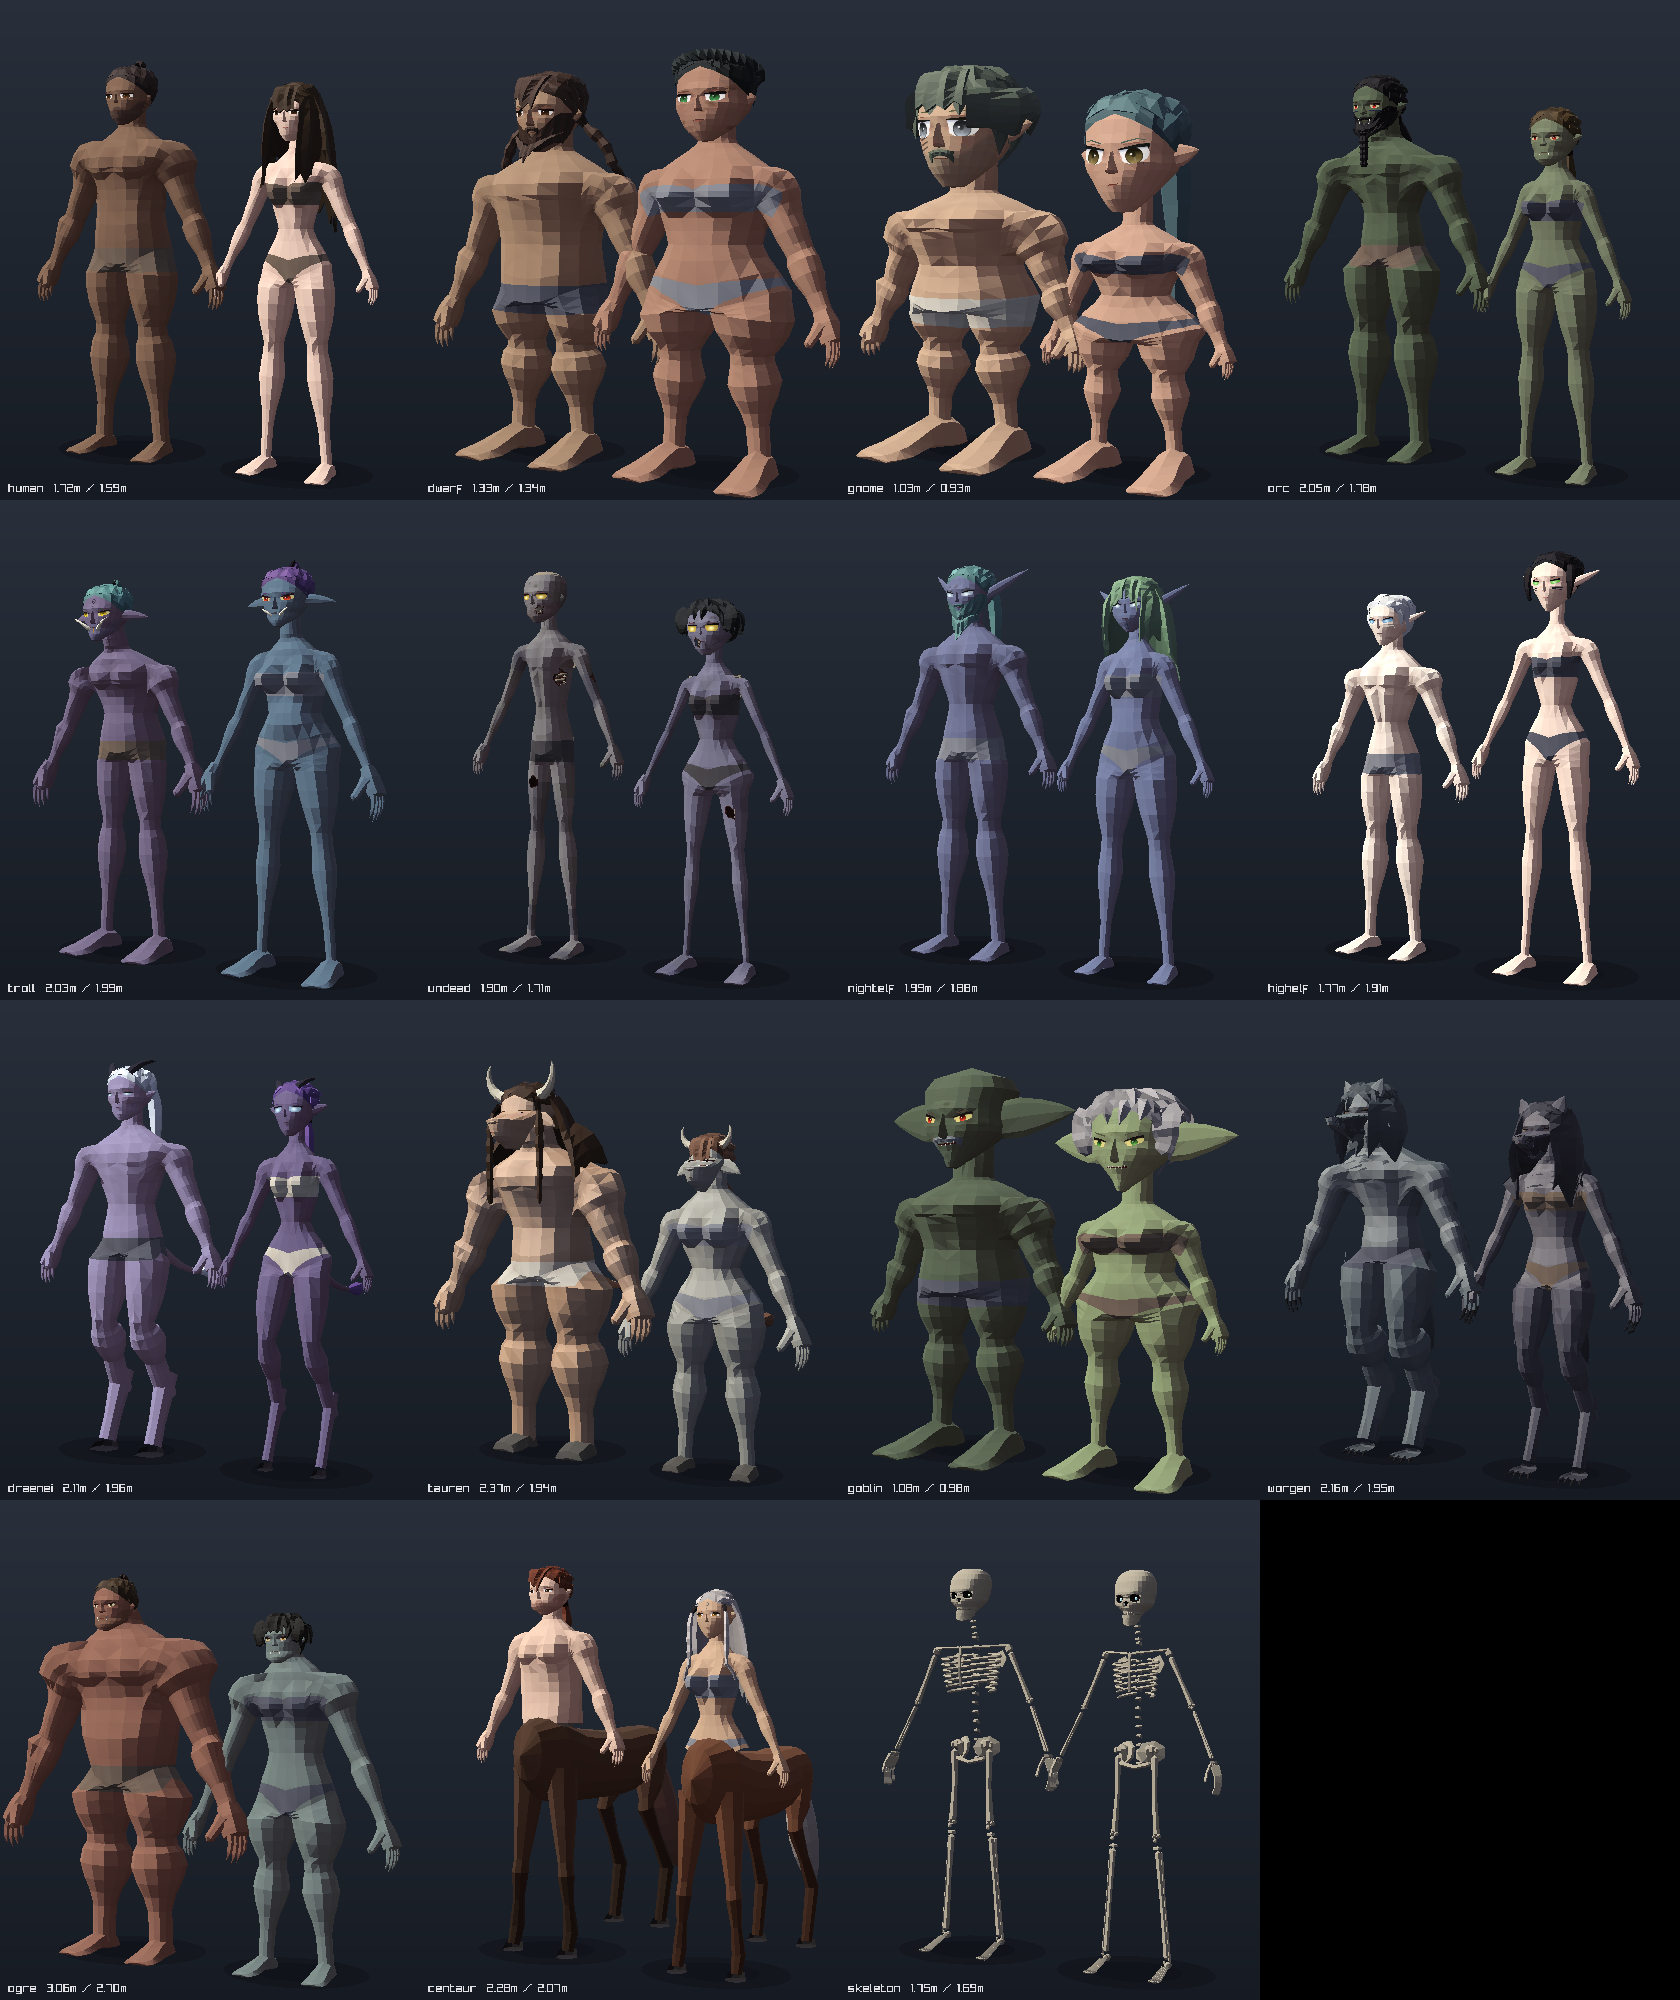
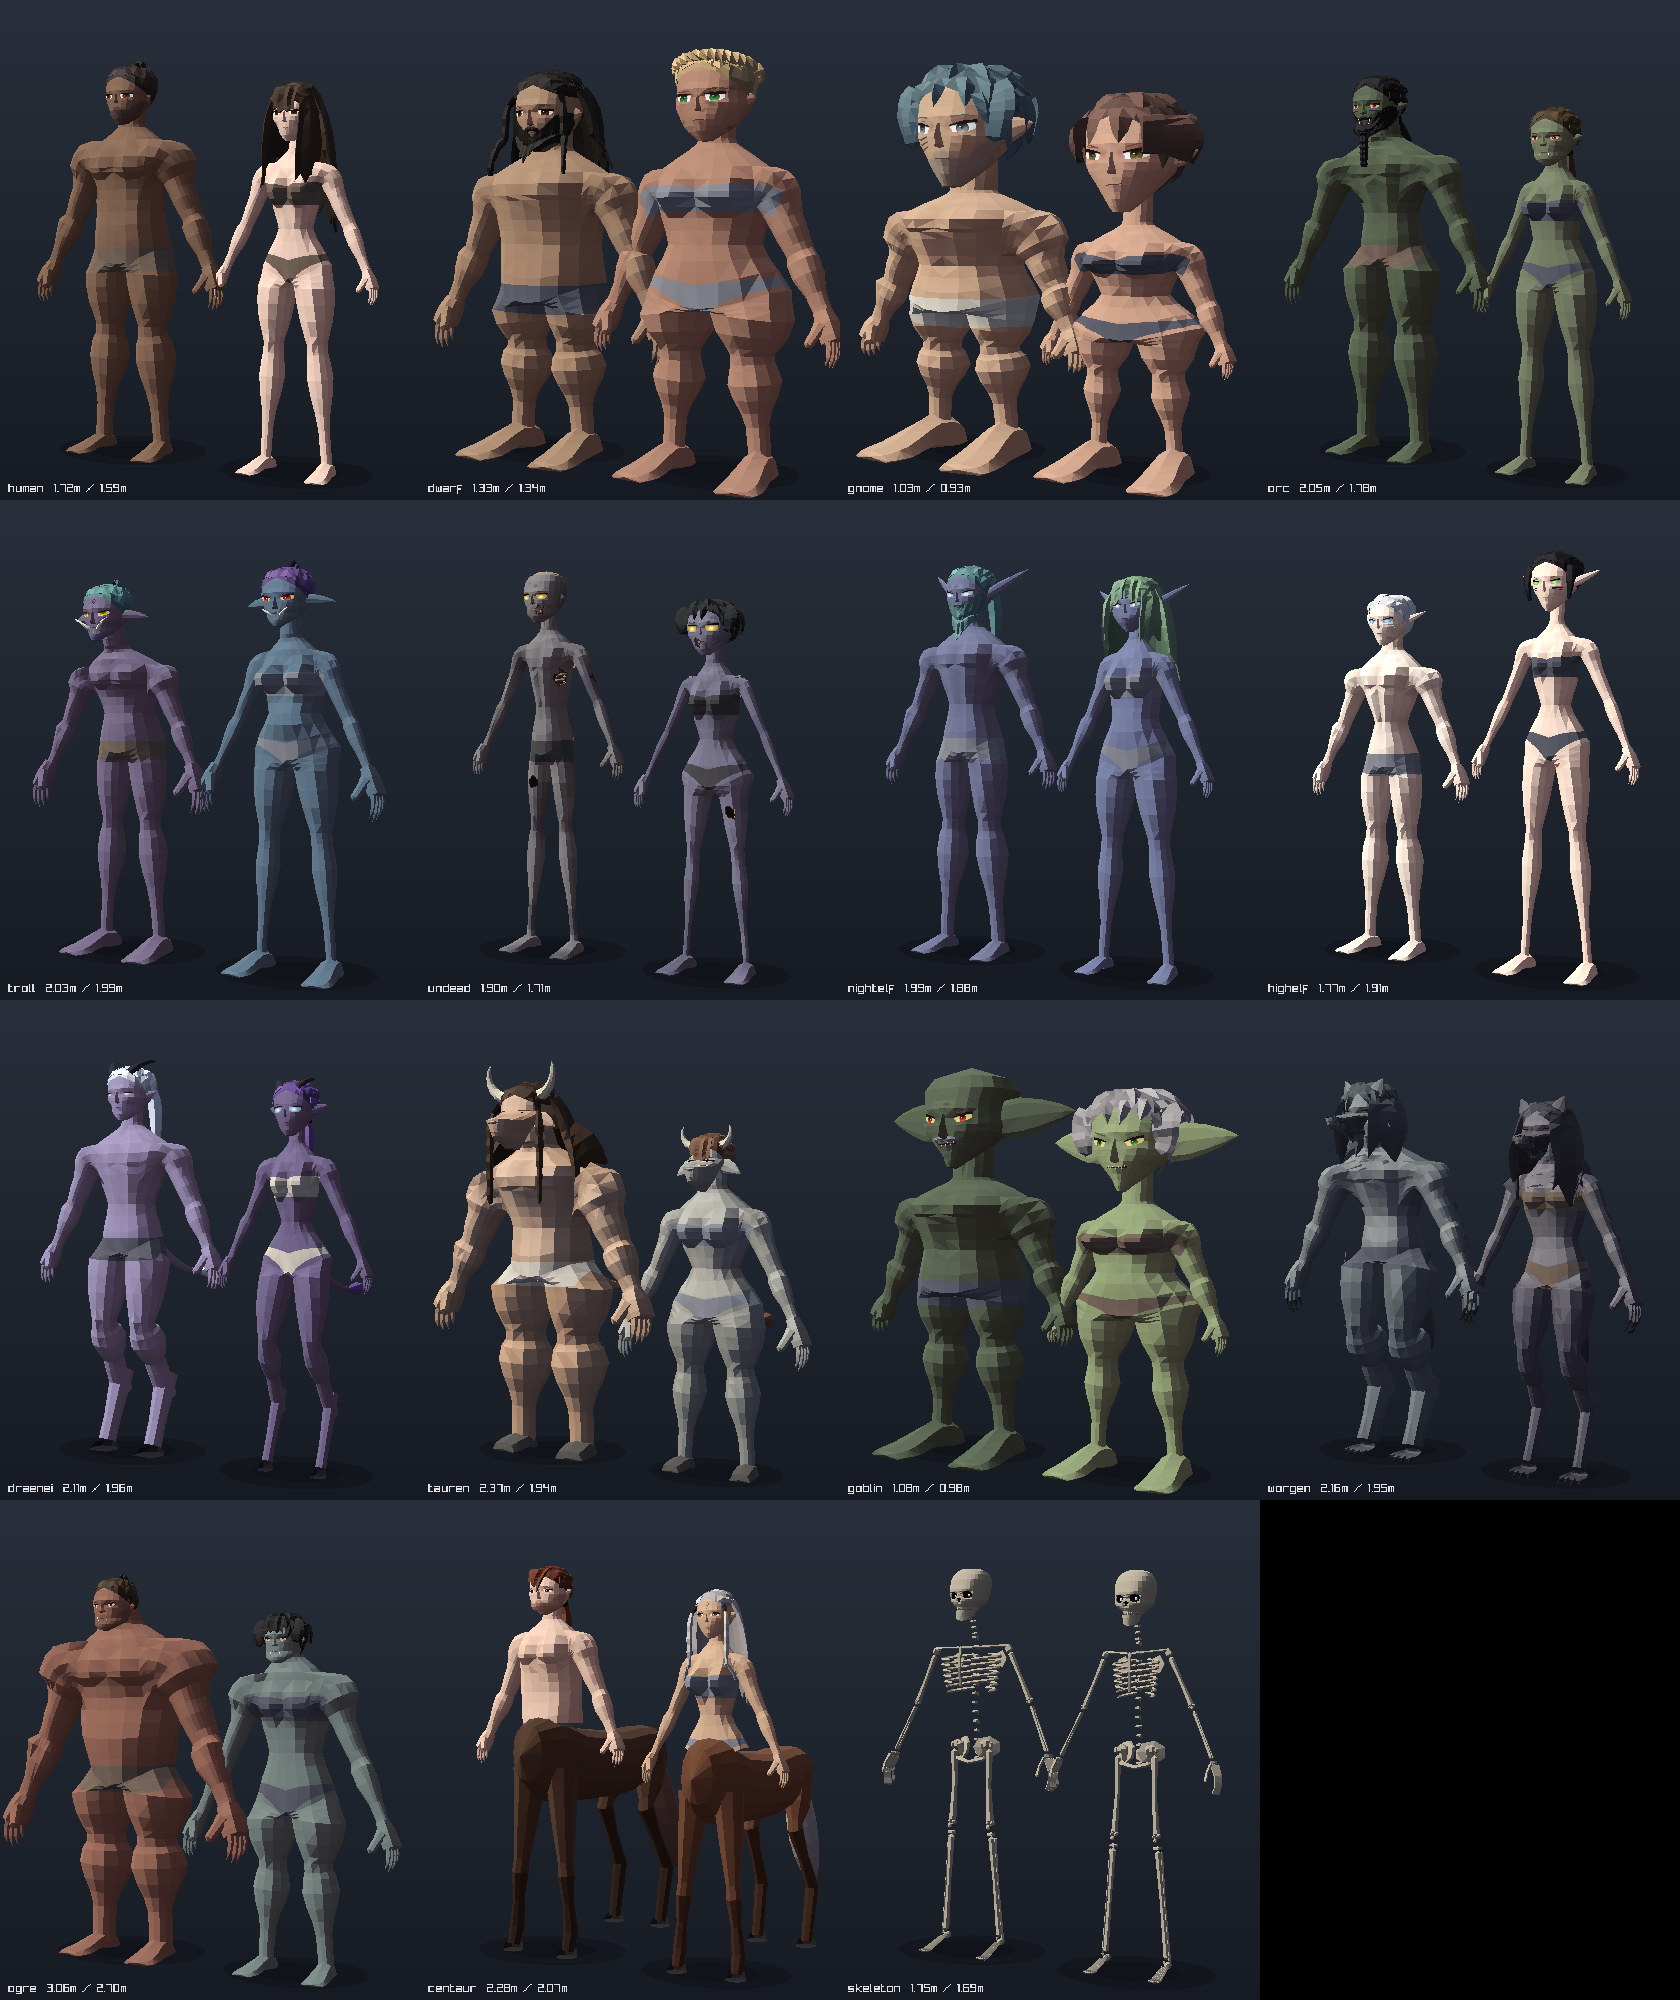
Earlier real tears, sharper gnomes, non-bulbous dwarf noses, lower second arm pair
- Decay: from 0.3 the flesh tears onto the real skeleton (small first tears growing
  with decay); no more painted/clipped stand-in ribs at the rotting stage
- Gnomes: sharp, wide-set eyes instead of doll eyes, long thin nose, crow's feet
- Dwarves: long, prominent, straight or hawkish noses, never a round bulb
- Four arms: the lower pair sits lower on the ribcage so the upper armpit keeps its
  full height (fewer folds)

Claude-Session: https://claude.ai/code/session_011V1MhR6AtzmQHNw1LnCBEH

Changed region(s): [[0.5262, 0.031, 0.7119, 0.124], [0.2786, 0.031, 0.3714, 0.093], [0.4024, 0.0, 0.4643, 0.062]]

diff --git a/src/genome.cpp b/src/genome.cpp
@@ -211,8 +211,9 @@ void applySpecies(Genome& g, Species sp, Rng r, const GenomeOptions& opt) {
             b.chestDepth *= 1.3f; b.handSize *= 1.25f; b.footSize *= 1.25f;
             b.neckLength *= 0.45f; b.neckThick *= 1.35f; b.muscle = saturate(b.muscle + 0.2f);
             if (!fem) b.belly += 0.12f;
-            f.noseLength = r.range(1.15f, 1.40f); f.noseProj = r.range(1.30f, 1.65f) * (fem ? 0.75f : 1.0f);
-            f.noseWidth = r.range(1.30f, 1.65f) * (fem ? 0.85f : 1.0f); f.noseTip = r.range(-0.2f, 0.4f);
+            // A strong, straight or hawkish nose: long and prominent, never a round bulb.
+            f.noseLength = r.range(1.05f, 1.25f); f.noseProj = r.range(1.05f, 1.30f) * (fem ? 0.8f : 1.0f);
+            f.noseWidth = r.range(1.00f, 1.20f) * (fem ? 0.9f : 1.0f); f.noseTip = r.range(-0.3f, 0.1f); f.noseHump = r.range(0.0f, 0.6f);
             f.browRidge = saturate(f.browRidge + 0.3f); f.eyeDepth = saturate(f.eyeDepth + 0.3f);
             f.ruddy = saturate(f.ruddy + 0.4f); f.jaw = std::max(f.jaw, fem ? 0.2f : 0.8f);
             f.wrinkles = saturate((g.age - 25.0f) / 60.0f + 0.25f); f.eyeSize *= 0.9f; f.headTop = 0.2f;
@@ -230,10 +231,12 @@ void applySpecies(Genome& g, Species sp, Rng r, const GenomeOptions& opt) {
             b.legRatio = 0.41f;
             widths(0.88f, 0.88f, 0.92f, 0.92f, 0.80f);
             b.neckLength *= 0.6f; b.handSize *= 1.1f; b.bust *= 0.6f; b.butt *= 0.8f;
-            f.eyeSize = 1.22f; f.eyeShape = 1; f.irisSize = 1.08f;
-            f.noseLength = 1.2f; f.noseProj = r.range(1.3f, 1.6f); f.noseWidth = 1.3f; f.noseTip = 0.45f;
-            f.roundness = saturate(f.roundness + 0.4f); f.chin = -0.3f; f.jaw = fem ? -0.3f : 0.0f; f.cheekHollow = 0.0f;
-            f.headTop = 0.6f; f.wrinkles = g.age > 40 ? 0.4f : 0.1f;
+            // Gnomes: wide-set, sharp, clever eyes (not doll eyes), a long pointed nose, crow's feet.
+            f.eyeSize = 1.0f; f.eyeShape = r.chance(0.5f) ? 0 : 3; f.irisSize = 0.92f; f.eyeSpacing = 1.08f; f.eyeTilt = 0.06f;
+            f.noseLength = 1.15f; f.noseProj = r.range(1.05f, 1.3f); f.noseWidth = 0.95f; f.noseTip = r.range(-0.1f, 0.3f);
+            f.chinPoint = 0.3f; f.browRidge = 0.5f; f.mouthWidth = 1.2f; f.lipFullness = 0.2f;
+            f.roundness = saturate(f.roundness + 0.15f); f.chin = 0.0f; f.jaw = fem ? -0.3f : 0.0f; f.cheekHollow = 0.2f; f.cheek = 0.5f;
+            f.headTop = 0.6f; f.wrinkles = g.age > 40 ? 0.55f : 0.25f;
             b.ear = {0.30f, 0.11f, 0.25f, 0.35f, 0.0f};
             hairColor(pickC({{0.62f, 0.36f, 0.44f}, {0.30f, 0.50f, 0.50f}, {0.42f, 0.32f, 0.52f}, {0.42f, 0.50f, 0.30f}, {0.80f, 0.80f, 0.80f},
                              {0.58f, 0.30f, 0.18f}, {0.70f, 0.62f, 0.40f}}));  // dyed, but faded

diff --git a/src/generator.cpp b/src/generator.cpp
@@ -204,7 +204,7 @@ void Builder::computeMarks() {
             } else {
                 // A second shoulder girdle on the lower ribcage: a little smaller, angled
                 // forward and out, so both pairs can work without colliding.
-                float y = m.crotchY + 0.555f * m.torsoLen;
+                float y = m.crotchY + 0.50f * m.torsoLen;
                 a.shoulder = {a.side * 0.80f * C, y, 0.03f * h};
                 a.clav = {a.side * 0.30f * C, y + 0.06f * h, 0.06f * h};
                 angle = 40.0f;
@@ -704,12 +704,12 @@ void Builder::buildArms() {
             const bool four = m.arms.size() > 2;
             int i0, i1;
             if (a.pair == 0) {
-                i0 = nearest(clamp(torsoT(a.shoulder.y - 1.55f * Ra), four ? 0.70f : 0.52f, 0.80f));
+                i0 = nearest(clamp(torsoT(a.shoulder.y - 1.55f * Ra), four ? 0.63f : 0.52f, 0.80f));
                 i1 = nearest(clamp(torsoT(a.shoulder.y + 0.85f * Ra), 0.92f, 1.0f));
                 upperArmI0_ = i0;
             } else {
-                i1 = std::min(nearest(clamp(torsoT(a.shoulder.y + 0.95f * Ra), 0.55f, 0.66f)), upperArmI0_ - 1);
-                i0 = nearest(clamp(torsoT(a.shoulder.y - 1.2f * Ra), 0.36f, 0.52f));
+                i1 = std::min(nearest(clamp(torsoT(a.shoulder.y + 0.95f * Ra), 0.52f, 0.60f)), upperArmI0_ - 1);
+                i0 = std::min(nearest(clamp(torsoT(a.shoulder.y - 1.2f * Ra), 0.32f, 0.46f)), i1 - 2);
             }
             if (lod.sparseRings) { if (i1 <= i0) i1 = i0 + 1; }
             else i0 = std::max(1, std::min(i0, i1 - 3));  // at least three rings tall: no pinched armpit
@@ -861,7 +861,7 @@ void Builder::buildArms() {
                 if (nearShoulder && dot(nrm(e.second[0]), nrm(e.second[1])) < -0.2f) {
                     ++folds;
                     if (std::getenv("CHARGEN_CHECK")[0] == '2')
-                        std::fprintf(stderr, "  fold t=%.3f x/h=%.2f z/h=%.2f\n", torsoT(ctr.y), ctr.x / m.h, ctr.z / m.h);
+                        std::fprintf(stderr, "  fold t=%.3f x/h=%.2f z/h=%.2f tris %zu %zu verts %u\n", torsoT(ctr.y), ctr.x / m.h, ctr.z / m.h, e.second[0], e.second[1], tr.a);
                 }
             }
             std::fprintf(stderr, "CHECK open=%d folds=%d\n", open, folds);
@@ -1822,7 +1822,7 @@ Character Builder::build() {
     buildBones();
     applyFur();
     buildFurTufts();
-    if (decay_ >= 0.55f || g.species == Species::Undead) {  // torn open onto the real skeleton
+    if (decay_ >= 0.3f || g.species == Species::Undead) {  // torn open onto the real skeleton
         buildBoneSkeleton();
         addDecayHoles();
         buildCavityShells();

diff --git a/src/bones.cpp b/src/bones.cpp
@@ -53,7 +53,8 @@ void applyDecay(Genome& g, float d) {
     f.restLid = std::max(f.restLid, 0.25f * smoothstep(0.0f, 0.2f, d));
     // Bared bones painted into the flesh while it still covers the body; past ~0.55 the
     // flesh tears open on the real skeleton instead.
-    b.bones = d < 0.35f ? b.bones : d < 0.45f ? (b.bones | 1 | 8) : d < 0.55f ? 15 : 0;
+    // From ~0.3 the flesh tears onto the real skeleton (Builder::addDecayHoles); no painted bones.
+    b.bones = d < 0.3f ? b.bones : 0;
 }
 
 // The skeleton, built from the body's own landmarks: it sits inside the flesh at any
@@ -424,7 +425,8 @@ void Builder::buildBoneSkeleton() {
 // Torn flesh: round holes through the skin onto the skeleton, growing with decay, each
 // backed by a dark cavity floor behind the bones.
 void Builder::addDecayHoles() {
-    const float h = m.h, k = g.species == Species::Undead && decay_ < 0.55f ? 0.0f : smoothstep(0.55f, 0.95f, decay_);
+    // k: 0 small first tears (decay 0.3, undead) .. 1 the flesh mostly gone.
+    const float h = m.h, k = g.species == Species::Undead && decay_ < 0.3f ? 0.0f : smoothstep(0.3f, 0.95f, decay_);
     const float side = (g.seed % 2 == 0) ? 1.0f : -1.0f;
     const float R0 = h * lerp(0.13f, 0.25f, k);
     const float T = g.body.thigh * h, Cf = g.body.calf * h;

diff --git a/README.md b/README.md
@@ -44,6 +44,10 @@ Raylib 5.5 (opcional).
 |---|
 | ![goblins](docs/goblins.png) |
 
+| Gnomos: olhos afiados (não de boneca), nariz longo e fino, pés de galinha |
+|---|
+| ![gnomos](docs/gnomos.png) |
+
 | Esqueleto (povo `skeleton`, olhos em brasa) | Esqueleto correndo (mesmo rig, todas as animações) |
 |---|---|
 | ![esqueleto](docs/folha_esqueleto.png) | ![corrida](docs/esqueleto_corrida.png) |
@@ -197,7 +201,7 @@ No jogo os personagens apodrecem e viram ossada ao morrer. `GenOptions::decay` (
 tempo passa (mesma semente, mesmo rig, mesmas animações):
 - **0,15 recém-morto**: palidez acinzentada, olhos leitosos, pálpebras caídas.
 - **0,4 apodrecendo**: carne manchada (hematomas, putrefação esverdeada), definhamento sobre os
-  ossos, costelas e mandíbula aparecendo pela pele, cabelo desbotado.
+  ossos, os primeiros rasgos pequenos já mostrando o esqueleto real, cabelo desbotado.
 - **0,7 putrefato**: couro escuro, órbitas vazias, e a carne se rasga em buracos recortados
   exatamente (campos de recorte) mostrando o **esqueleto real** dentro: costelas, coluna, fêmur,
   úmero, rádio e ulna; atrás dos ossos, a parede interna escura da cavidade.
